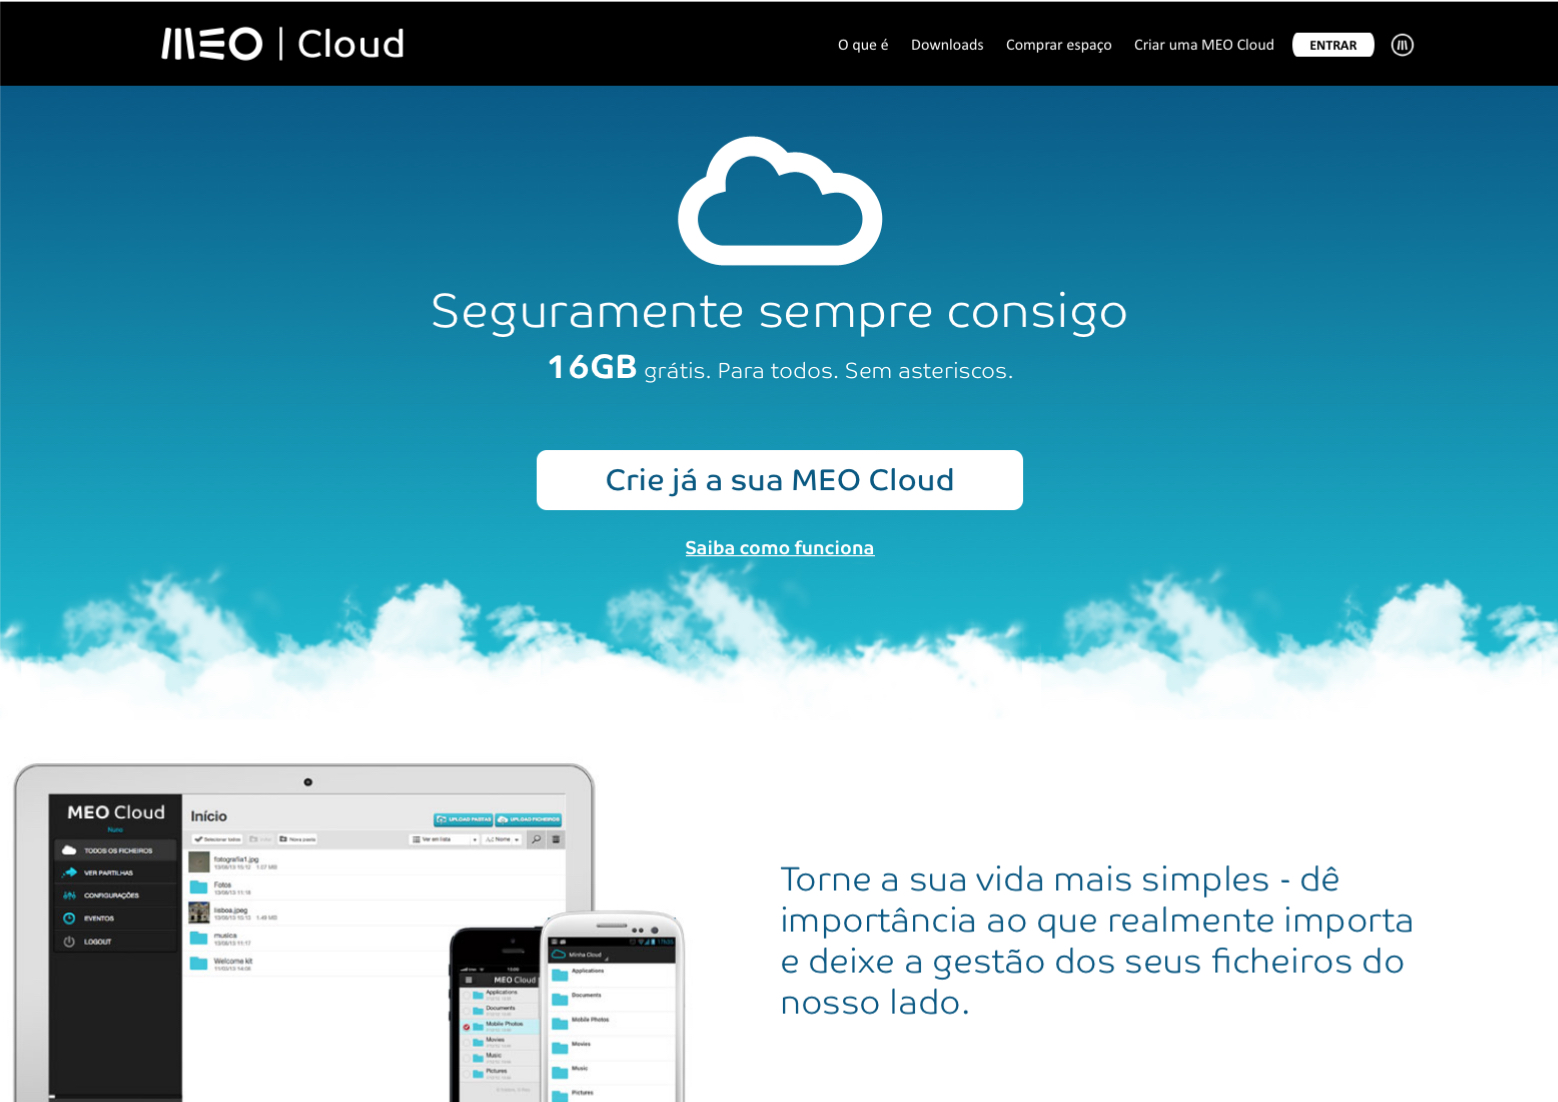
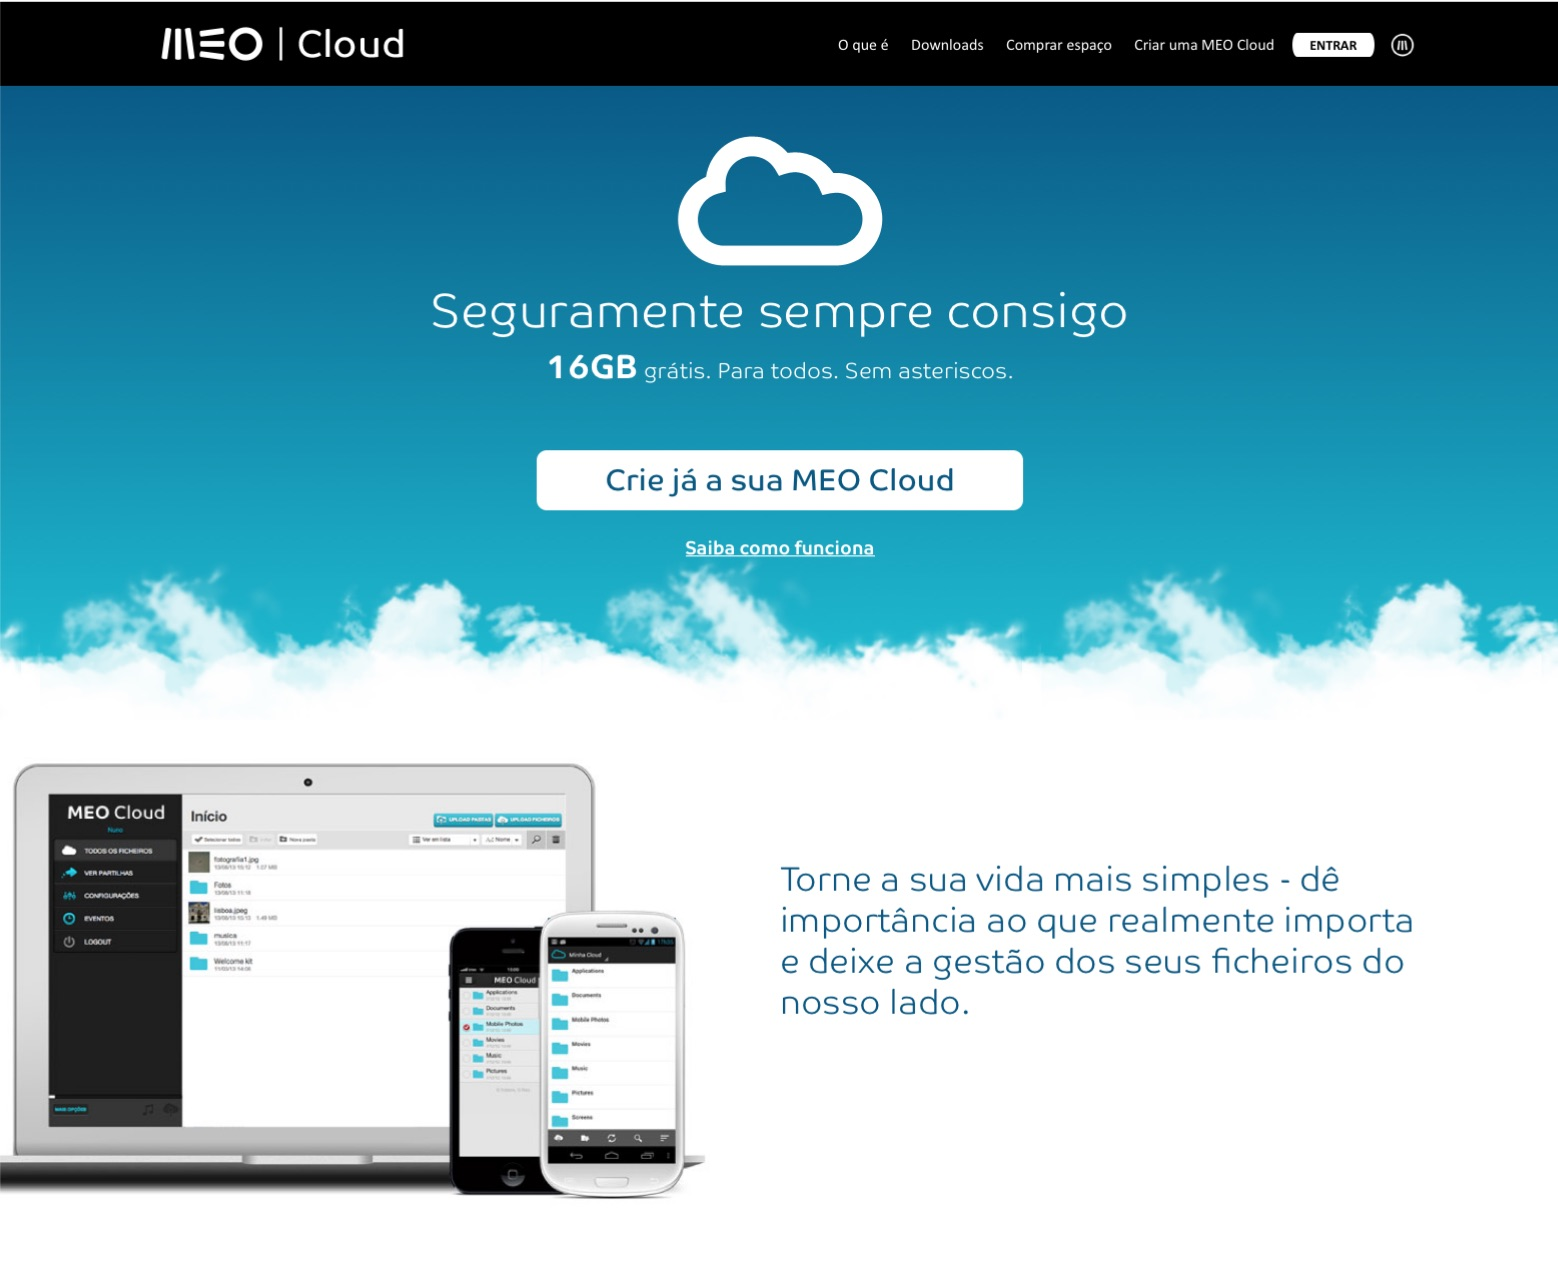
meo_cloud images

Changed region(s): [[0.0, 0.0, 1.0, 1.0], [0.4929, 0.6788, 0.9243, 0.9256]]

diff --git a/_includes/work/meocloud.html b/_includes/work/meocloud.html
@@ -80,6 +80,29 @@
       <p>The result was pretty good, we made service as good or better than dropbox, with some features that no one ha at the time like a password on links, upload to a folder, or a TV client.</p>
       <p>When I left SAPO, we had more than 1M new files daily, 365K users, and more than 635TB of space. Please have in mind that the MEO Cloud was launched only in Portugal, and we have a population of 10M.</p>
    </div>
+
+
+
+   <div class="the_content">
+      <h3>The website</h3>
+      <div class="d-flex flex-column flex-sm-row w-100">
+         <figure class="p-2 w-100">
+            <img 
+            src="{{site.url}}/assets/img/work/{{ page.content_template }}/wallpaper.jpg" 
+            srcset="
+            {{site.url}}/assets/img/work/{{ page.content_template }}/wallpaper.jpg 1x, 
+            {{site.url}}/assets/img/work/{{ page.content_template }}/wallpaper@2x.jpg 2x
+            "
+            alt="Colors">
+         </figure>
+      </div>
+      <p>When I got to start on this project, I was finishing another service for the MEO broadcast brand. It was in a group of services that believed to give value to the simple TV + internet subscription.</p>
+      <p>For us, at SAPO, it was the natural way to create a product. We saw the trend, we believe we could do it, and we got the resources to do it. The Team was one of the best I've ever worked with, only with them could be possible to build this.</p>
+      <p>My role at the start was research, a lot of it. Most of us use these services but have no idea how hard it is to deal with people's files and small things that happen.</p>
+      <p>The other side was to communicate how this kind of service works to a mutch broad audience that does not have a lot of digital skills. This service had primetime attention at the time.</p>
+      <p>The result was pretty good, we made service as good or better than dropbox, with some features that no one ha at the time like a password on links, upload to a folder, or a TV client.</p>
+      <p>When I left SAPO, we had more than 1M new files daily, 365K users, and more than 635TB of space. Please have in mind that the MEO Cloud was launched only in Portugal, and we have a population of 10M.</p>
+   </div>
    
 
 
